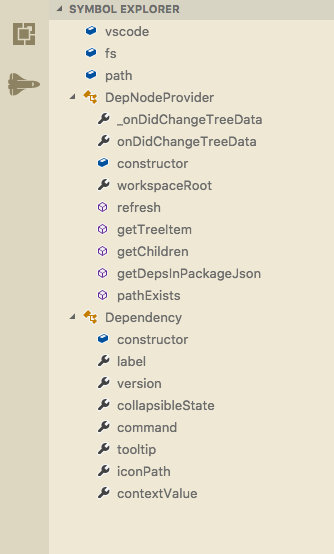
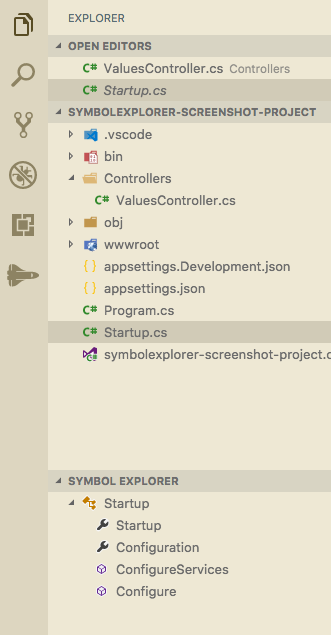
- Updated existing screenshot and added a new one;

diff --git a/README.md b/README.md
@@ -10,7 +10,13 @@ A simple vscode extension to provide and explorer view of the symbols in the act
 - Symbols update automatically when your document is saved
 - Refresh the list
 
+### Explorer View
+
 ![screenshot](screenshots/_Extension_Development_Host__-_extension_ts_—_vscode-azureappservice.png)
+
+### Activity Bar
+
+![screenshot](screenshots/_Extension_Development_Host__-_Startup_cs_—_symbolexplorer-screenshot-project.png)
 
 ## Configuration
 
